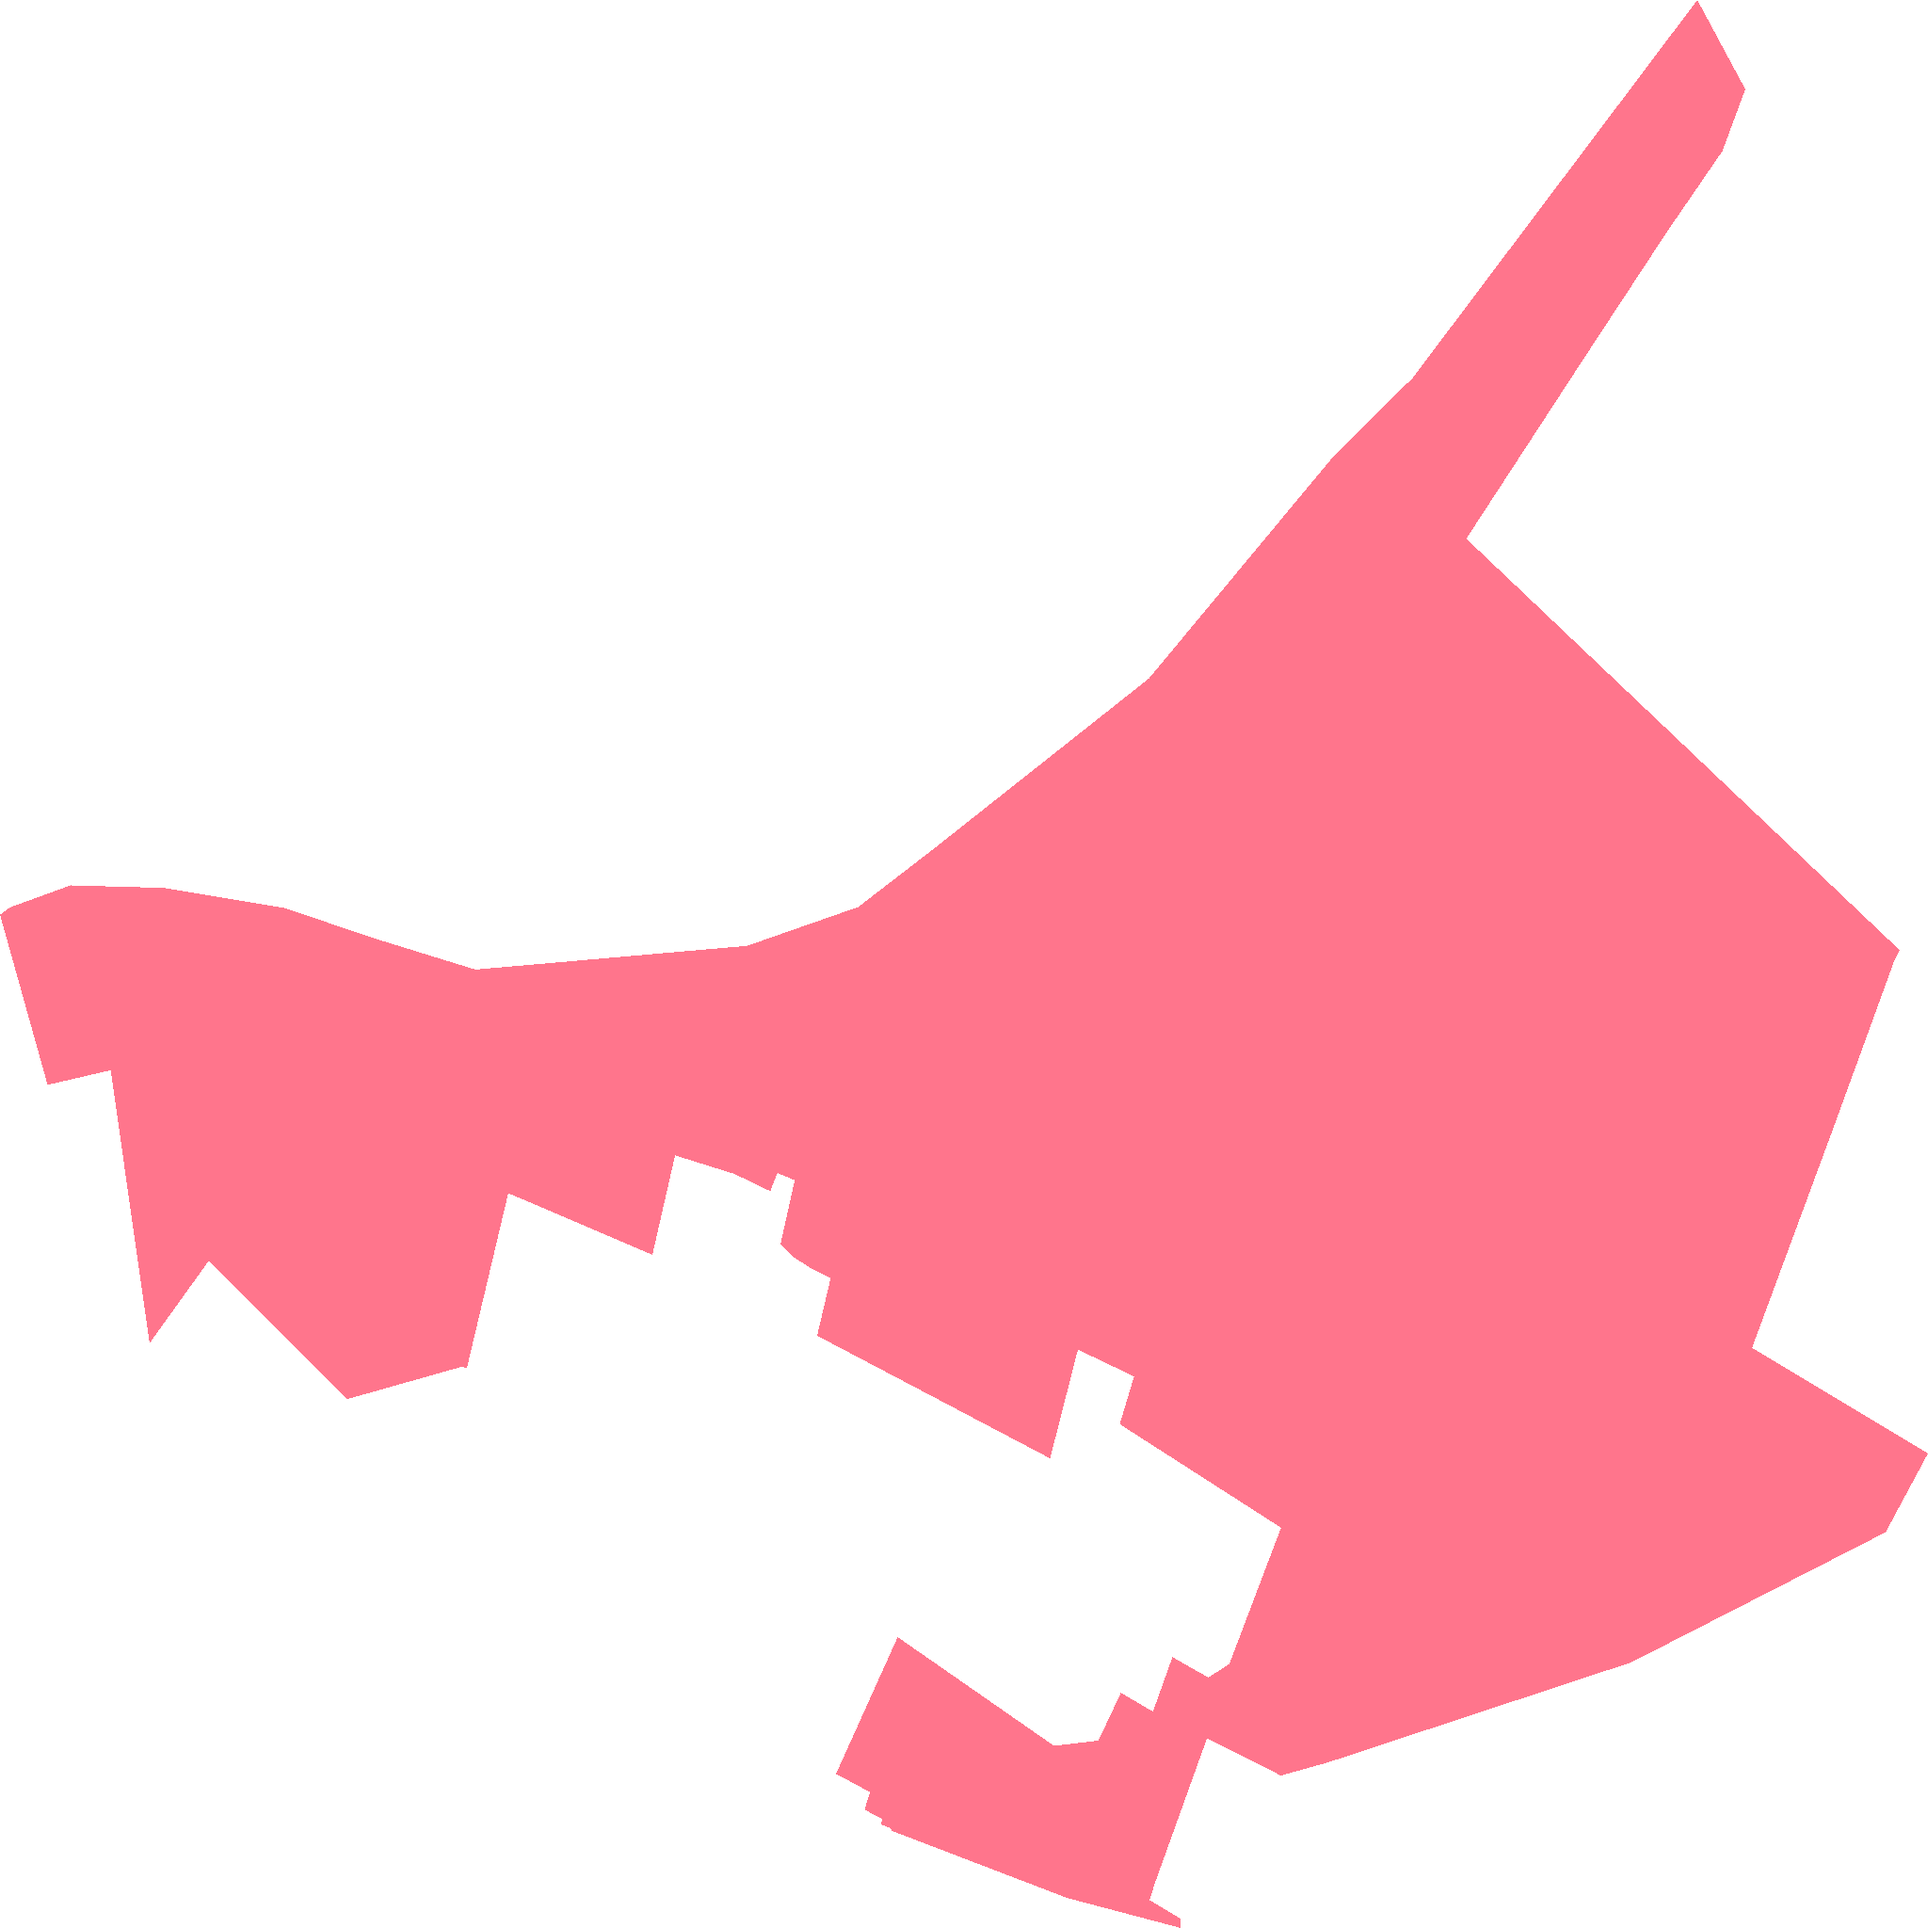
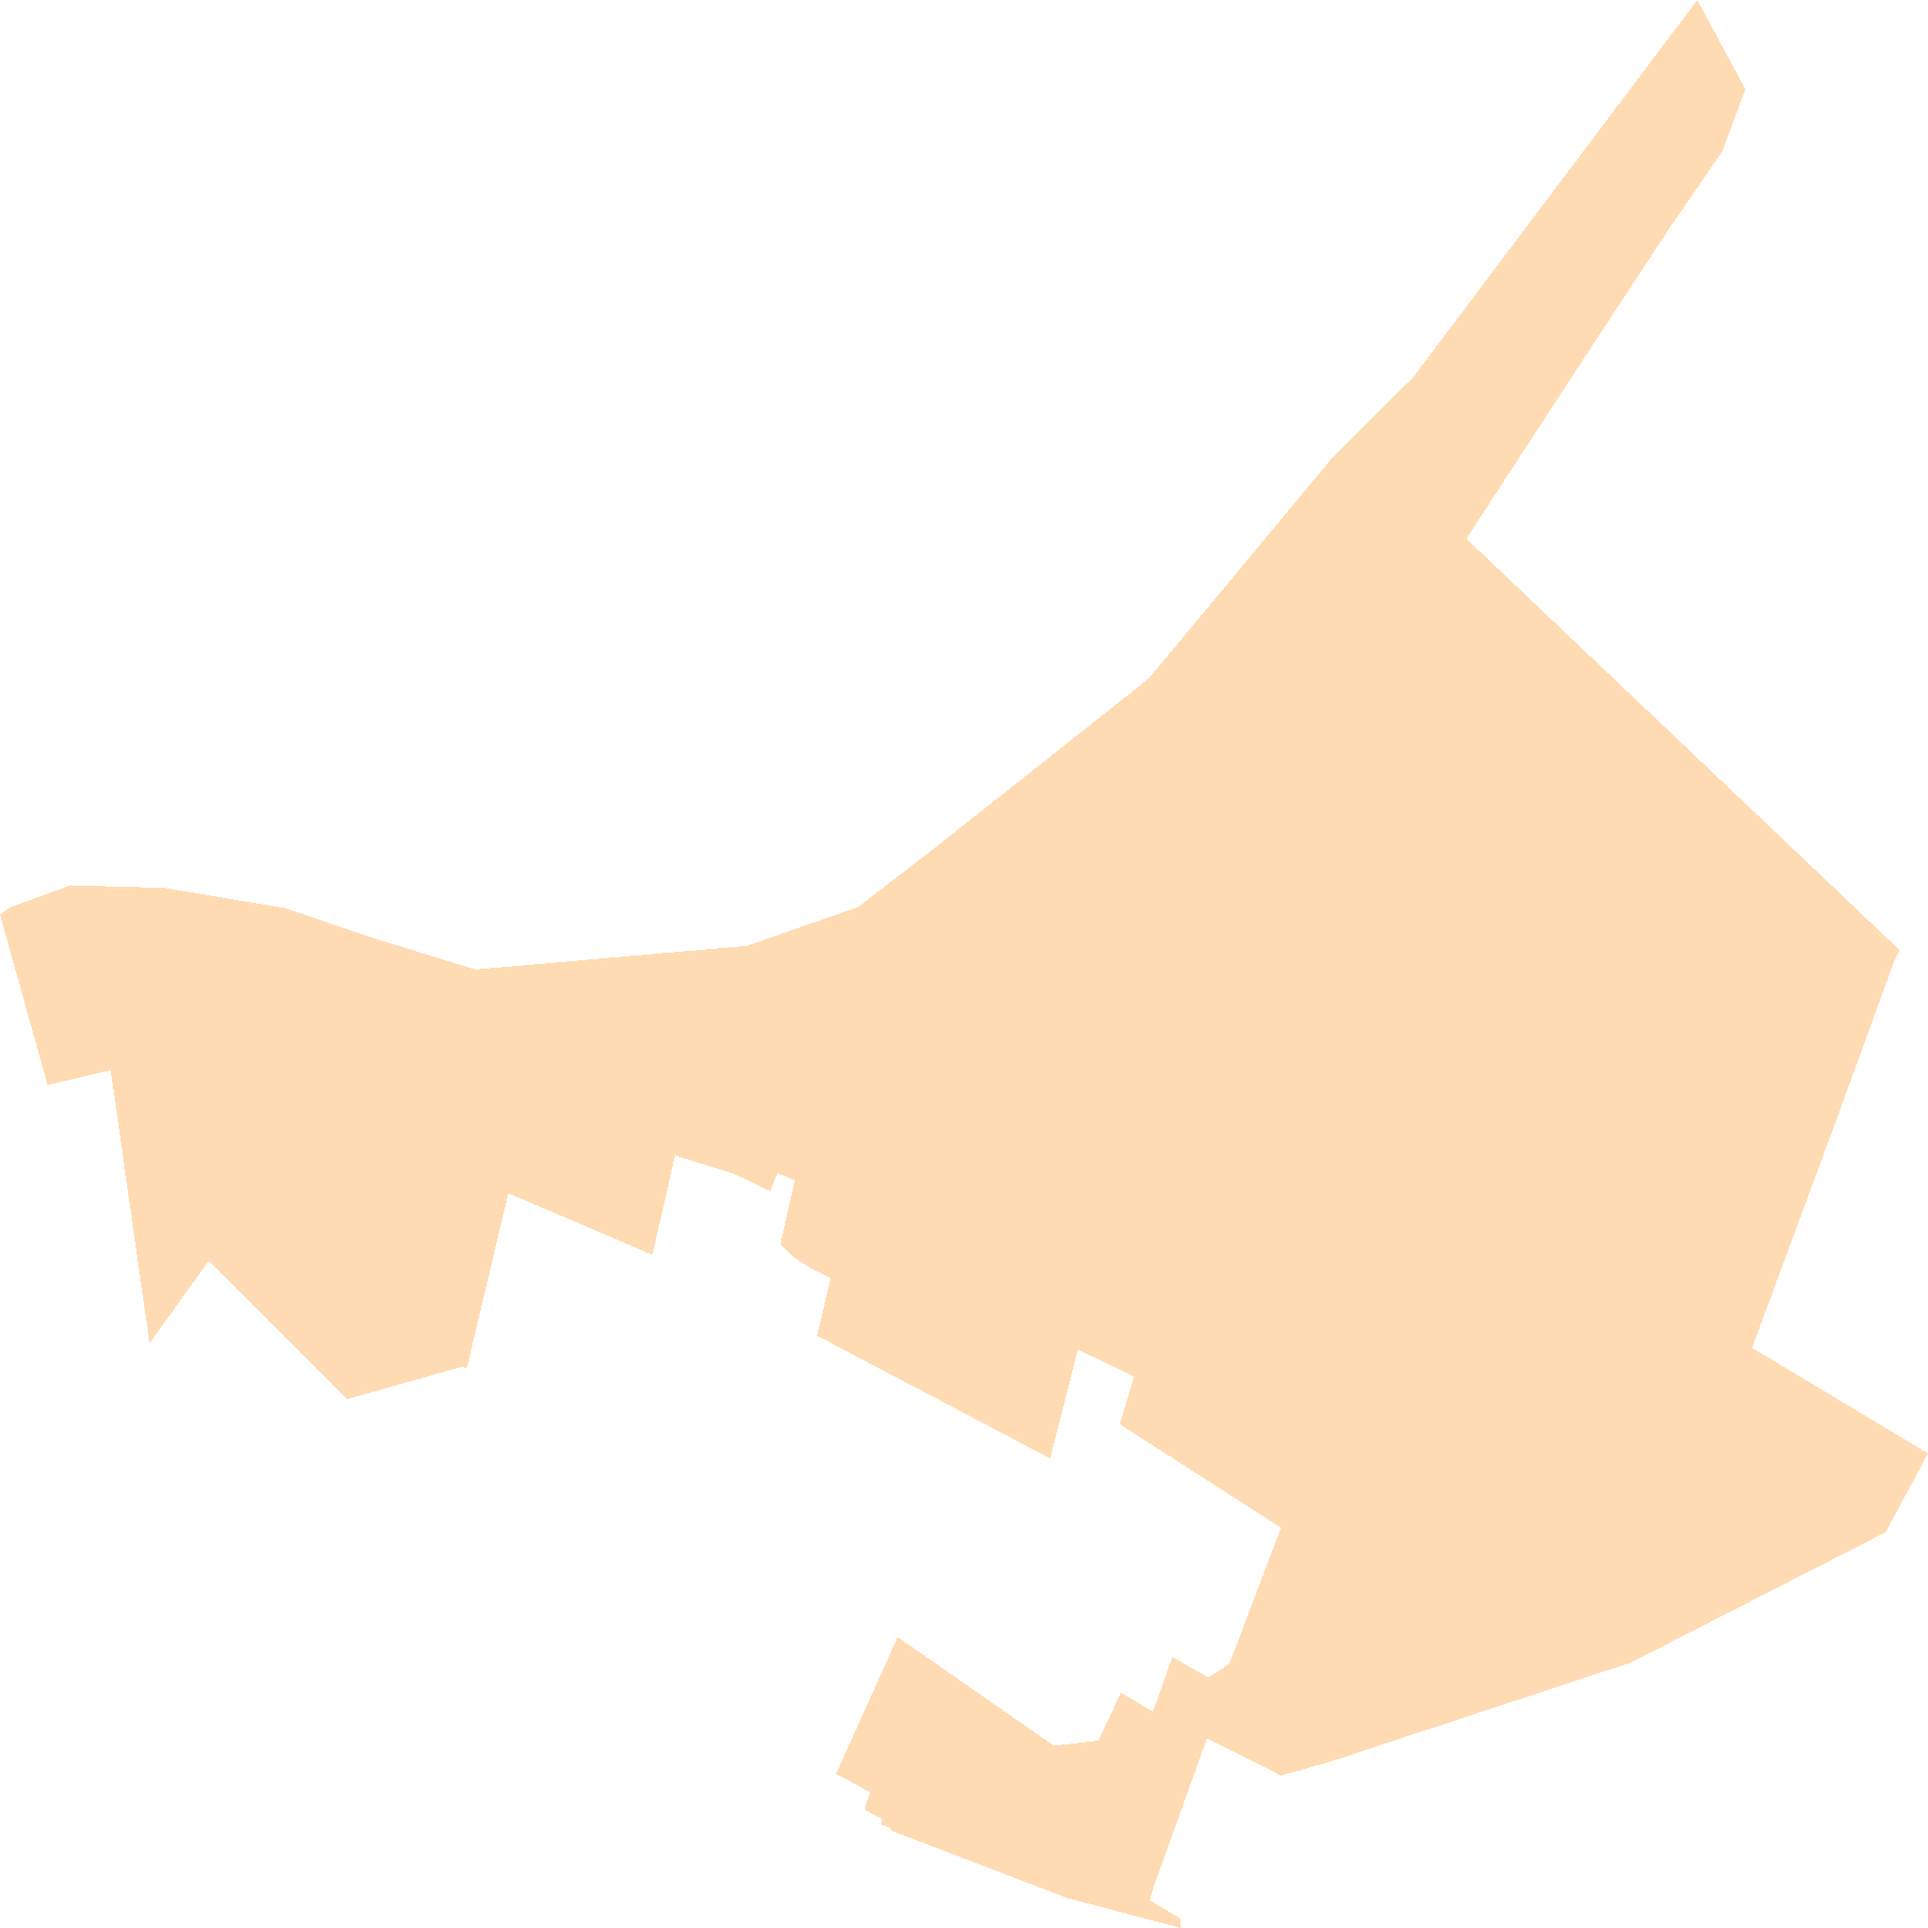
Karte p_503

diff --git a/p_503.html b/p_503.html
@@ -128,8 +128,9 @@
 <body>
     <div id="map"></div>
     <div id="legend">
-        <div><span style="display:inline-block; width:20px; height:10px; background:#FF7F00; margin-right:5px;"></span>Ausbauphase 1: Ausbau bei ausreichender Nachfrage</div>
+        <div><span style="display:inline-block; width:20px; height:10px; background:#FF7F00; margin-right:5px;"></span>Ausbauphase 1: Glasfasernetz vorhanden oder geplant</div>
         <div><span style="display:inline-block;width:20px; height:10px; background:#00143C; margin-right:5px;"></span>Ausbauphase 2: Interessenbekundung möglich</div>
+        <div><span style="display:inline-block;width:20px; height:10px; background:#FFC17D; margin-right:5px;"></span>Ausbauphase 3: Gefördertes Ausbaugebiet </div>
     </div>
     <script>
     const bounds = [[50.369947653, 8.036443531], [50.378667525, 8.055138303]];
